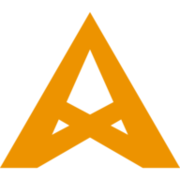
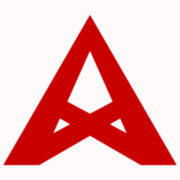
Red. Red. All the way red.

diff --git a/index.html b/index.html
@@ -106,14 +106,14 @@
                 <path
                     id="path961"
                     d="M 79.374998,138.49668 7.9434561,262.21973 H 37.466866 l 41.908132,-24.19569 41.908142,24.19569 h 29.52341 z m 0,29.5963 18.640218,41.86663 -18.640218,9.91147 -18.640213,-9.91147 z m -24.768747,55.63115 8.400881,4.84988 -13.835328,7.35626 z m 49.537499,0 5.43445,12.20614 -13.83533,-7.35626 z"
-                    style="fill:#ed9300;fill-opacity:1;stroke:#000000;stroke-width:0;stroke-linecap:butt;stroke-linejoin:miter;stroke-miterlimit:4;stroke-dasharray:none;stroke-opacity:1" />
+                    style="fill:#c80000ff;fill-opacity:1;stroke:#000000;stroke-width:0;stroke-linecap:butt;stroke-linejoin:miter;stroke-miterlimit:4;stroke-dasharray:none;stroke-opacity:1" />
                 <text
                     id="text837"
                     y="296.185"
                     x="5.9201093"
-                    style="font-style:normal;font-variant:normal;font-weight:700;font-stretch:normal;font-size:37.88838959px;line-height:1.25;font-family:Open Sans;-inkscape-font-specification:'Open Sans, Normal';font-variant-ligatures:normal;font-variant-caps:normal;font-variant-numeric:normal;text-align:start;letter-spacing:0px;word-spacing:0px;writing-mode:lr-tb;text-anchor:start;fill:#ed9300;fill-opacity:1;stroke:none;stroke-width:0.94720972"
+                    style="font-style:normal;font-variant:normal;font-weight:700;font-stretch:normal;font-size:37.88838959px;line-height:1.25;font-family:Open Sans;-inkscape-font-specification:'Open Sans, Normal';font-variant-ligatures:normal;font-variant-caps:normal;font-variant-numeric:normal;text-align:start;letter-spacing:0px;word-spacing:0px;writing-mode:lr-tb;text-anchor:start;fill:#c80000ff;fill-opacity:1;stroke:none;stroke-width:0.94720972"
                     xml:space="preserve"><tspan
-                      style="font-style:normal;font-variant:normal;font-weight:700;font-stretch:normal;font-size:37.88833237px;font-family:'Open Sans';-inkscape-font-specification:'Open Sans, Bold';font-variant-ligatures:normal;font-variant-caps:normal;font-variant-numeric:normal;font-feature-settings:normal;text-align:start;writing-mode:lr-tb;text-anchor:start;fill:#ed9300;fill-opacity:1;stroke-width:0.94720972"
+                      style="font-style:normal;font-variant:normal;font-weight:700;font-stretch:normal;font-size:37.88833237px;font-family:'Open Sans';-inkscape-font-specification:'Open Sans, Bold';font-variant-ligatures:normal;font-variant-caps:normal;font-variant-numeric:normal;font-feature-settings:normal;text-align:start;writing-mode:lr-tb;text-anchor:start;fill:#c80000ff;fill-opacity:1;stroke-width:0.94720972"
                       y="296.185"
                       x="5.9201093"
                       id="tspan835">AXXION</tspan></text>

diff --git a/index.css b/index.css
@@ -67,7 +67,7 @@ box-sizing:inherit
   flex-direction: column;
   justify-content: center;
   align-items: center;
-  background: linear-gradient(to top right, rgb(189, 189, 189) 0 calc(50% - 4px), rgb(237, 147, 0) calc(50% - 4px) calc(50% + 4px), rgb(189, 189, 189) calc(50% + 4px) 100%);
+  background: linear-gradient(to top right, rgb(189, 189, 189) 0 calc(50% - 4px), rgb(200, 0, 0) calc(50% - 4px) calc(50% + 4px), rgb(189, 189, 189) calc(50% + 4px) 100%);
   width: 100%;
   height: 100%;
   position: relative;
